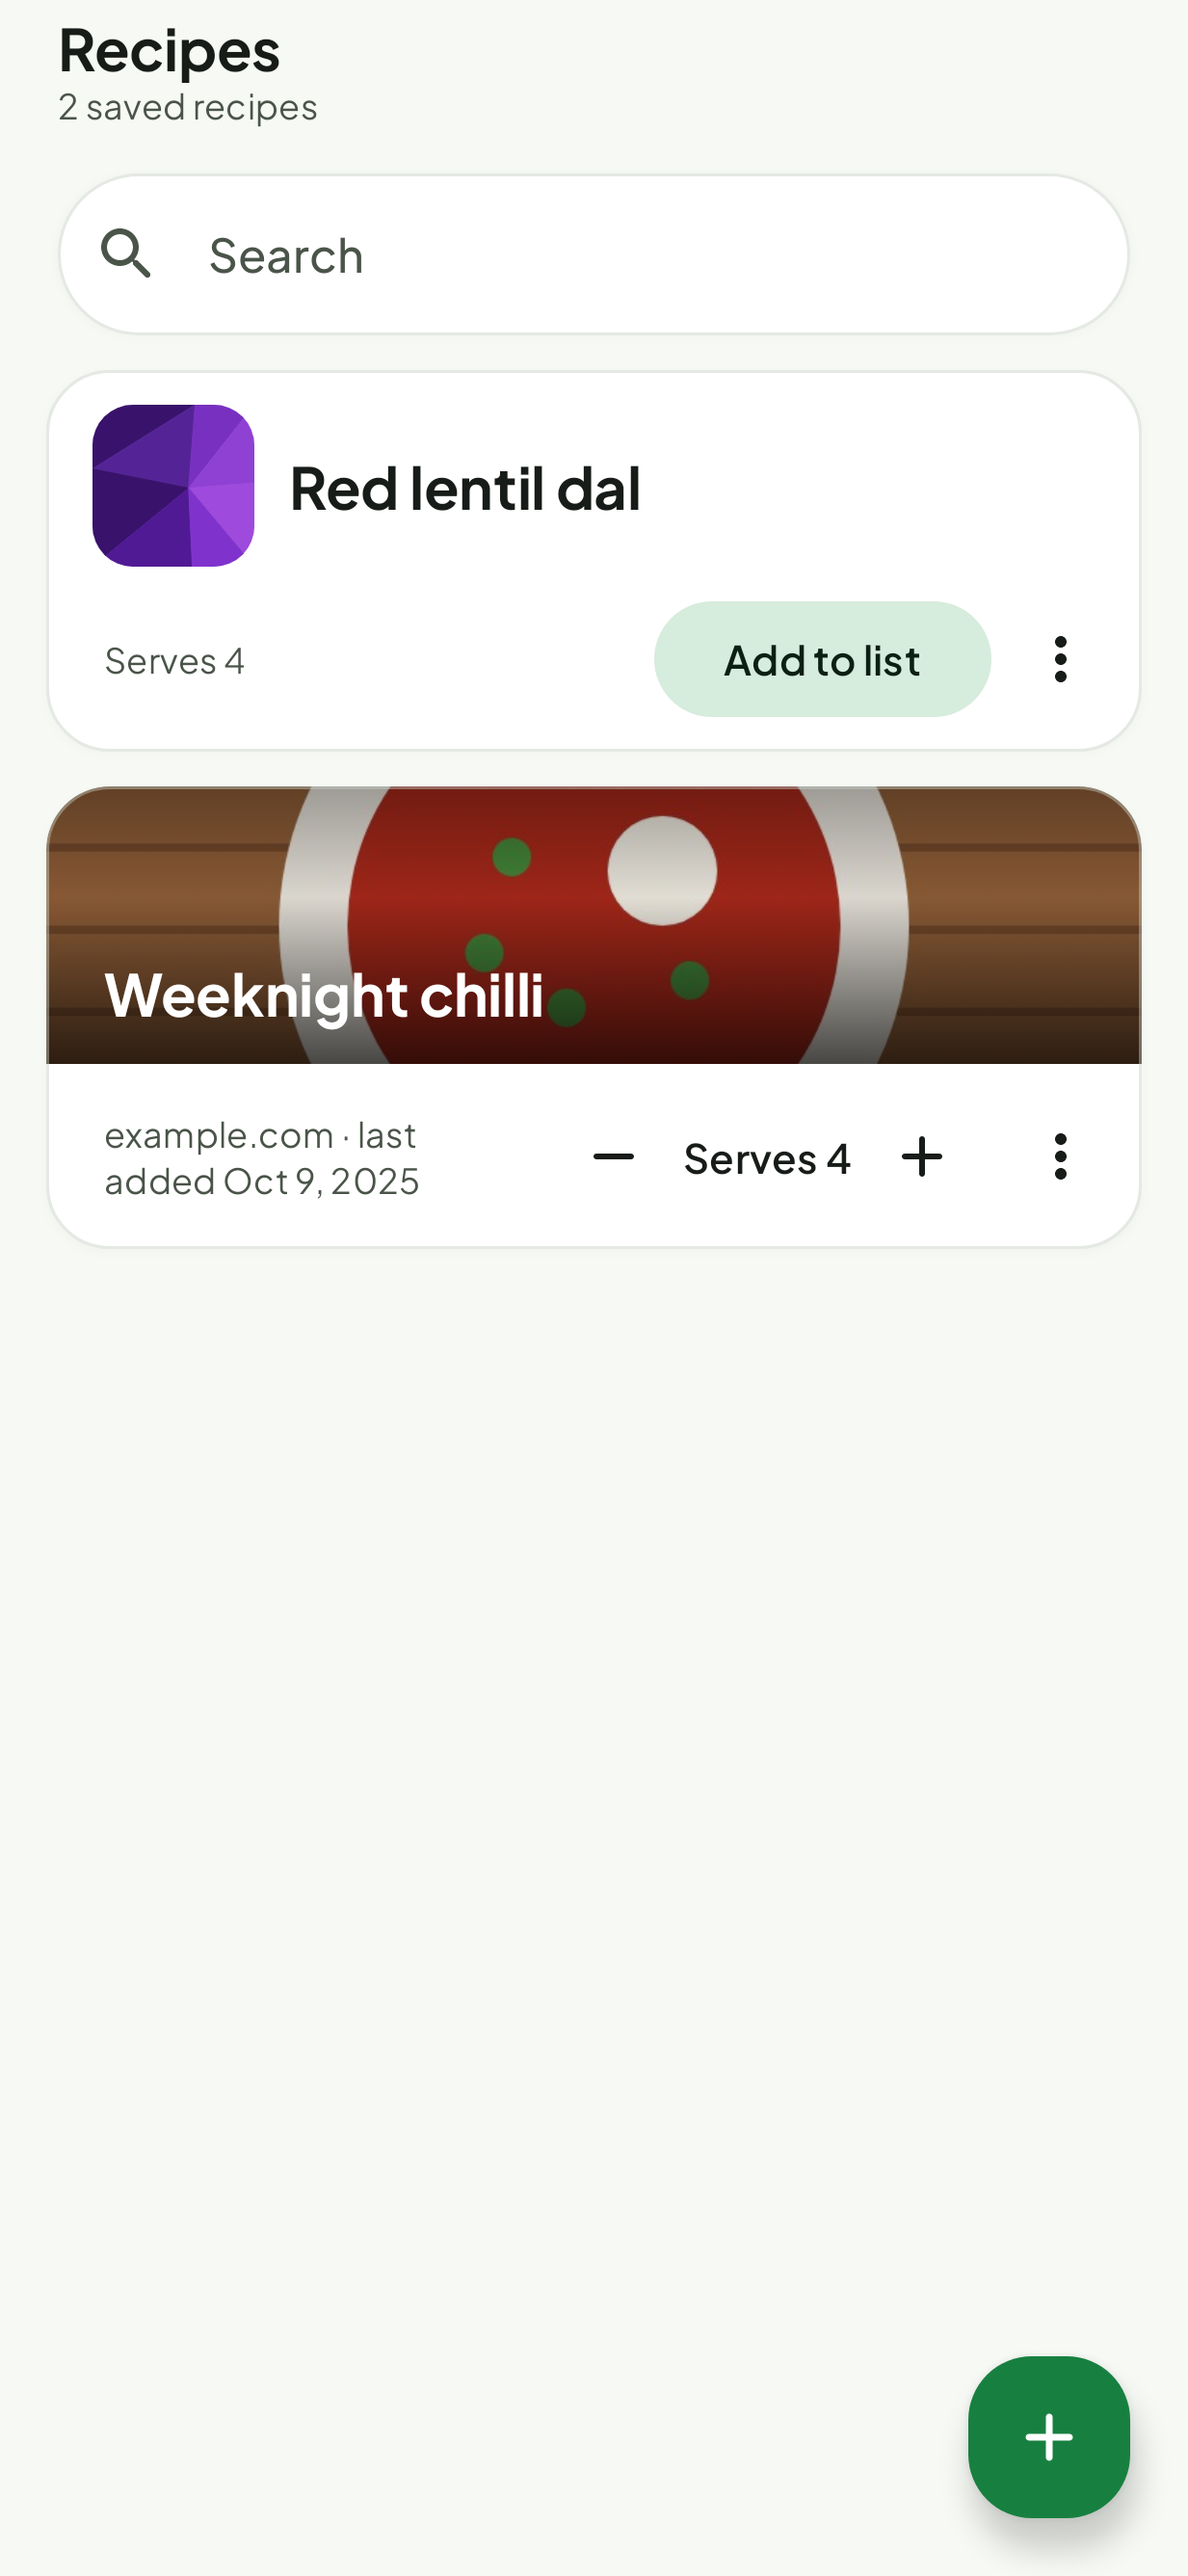
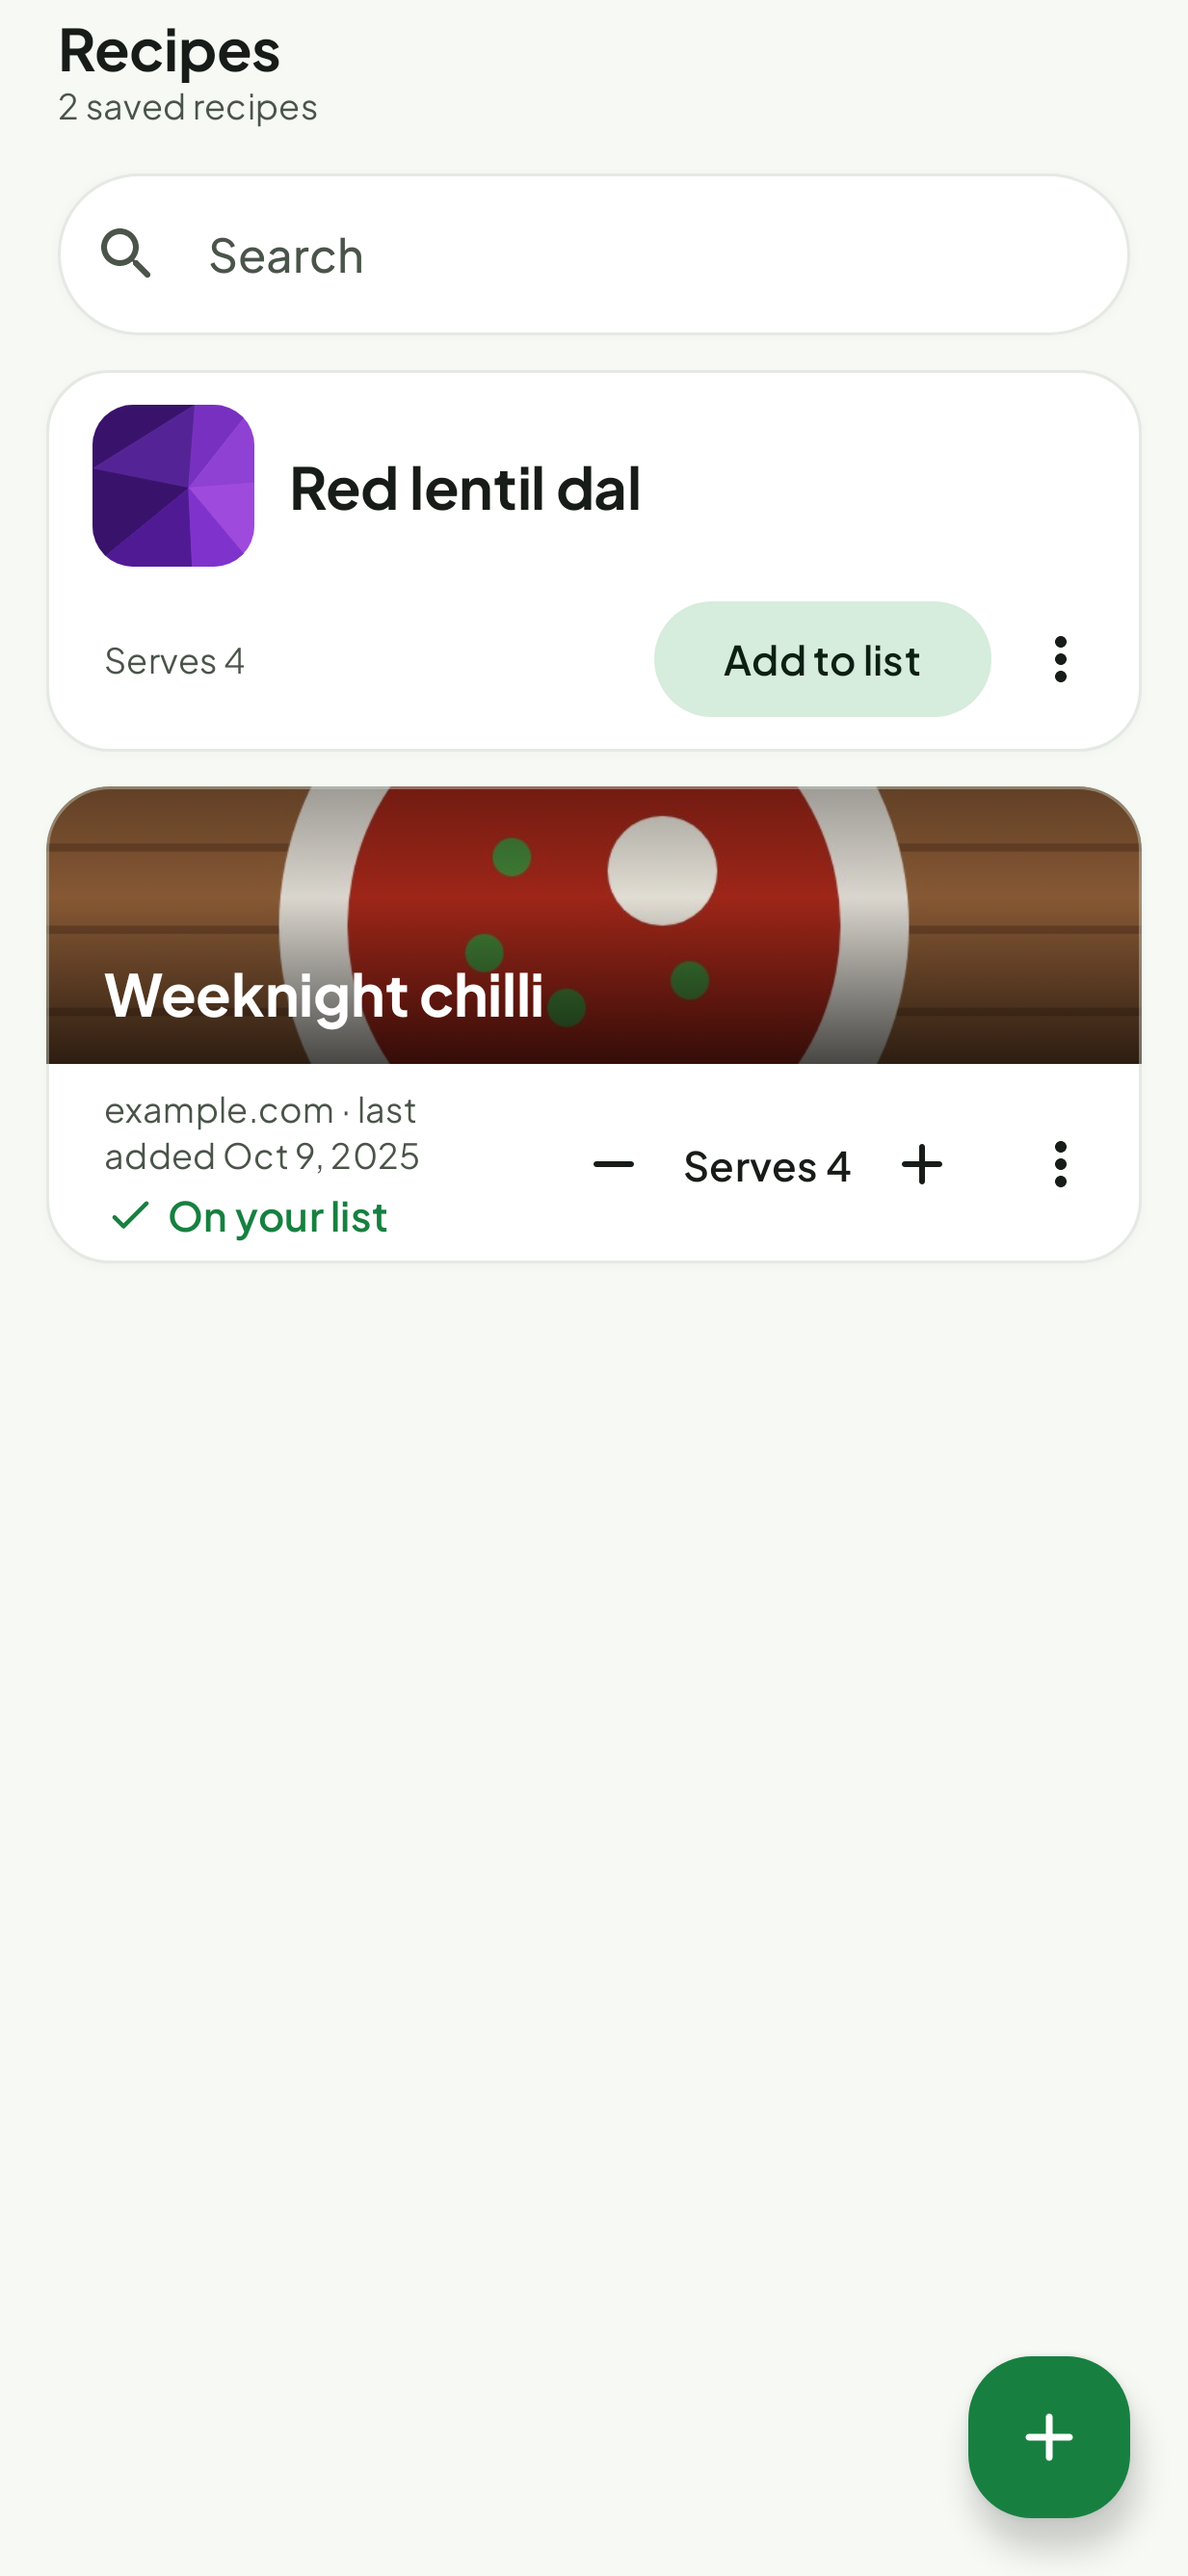
[AC.4] A recipe on the list says "On your list"
A ticked "On your list" beside the servings on the Recipes card and sheet;
off the list, "Add to list" as before.

Claude-Session: https://claude.ai/code/session_01XHyUGxiCMSHv96zvVnb1yh

diff --git a/android/app/src/main/java/com/robert4lyf/hypershop/ui/recipes/RecipesRoute.kt b/android/app/src/main/java/com/robert4lyf/hypershop/ui/recipes/RecipesRoute.kt
@@ -490,13 +490,8 @@ private fun LibraryCard(
                     row.uses?.let {
                         Text("Uses $it", style = MaterialTheme.typography.labelMedium, color = MaterialTheme.colorScheme.tertiary)
                     }
-                    if (row.onList && row.servings == null) {
-                        Text(
-                            "On the shopping list",
-                            style = MaterialTheme.typography.labelMedium,
-                            color = MaterialTheme.colorScheme.primary,
-                        )
-                    }
+                    // Step AC: on the list, said with a tick beside the servings; off it, "Add to list" instead.
+                    if (row.onList) OnYourList(Modifier.padding(top = 4.dp).testTag("lib-on-list-${row.key}"))
                 }
                 // Step AA: on the list, the card shows how many it is for, changed in place; "Add to list" only when it
                 // is not on the list (it no longer sits beside "On the shopping list").
@@ -645,6 +640,19 @@ fun RecipeDetailContent(
     }
 }
 
+/** Step AC: "✓ On your list", one TalkBack node, so a recipe on the list reads differently from one with "Add to list". */
+@Composable
+private fun OnYourList(modifier: Modifier = Modifier) {
+    Row(
+        modifier.semantics(mergeDescendants = true) {},
+        verticalAlignment = Alignment.CenterVertically,
+        horizontalArrangement = Arrangement.spacedBy(4.dp),
+    ) {
+        Icon(Icons.Rounded.Check, contentDescription = null, tint = MaterialTheme.colorScheme.primary, modifier = Modifier.size(18.dp))
+        Text("On your list", style = MaterialTheme.typography.labelLarge, color = MaterialTheme.colorScheme.primary)
+    }
+}
+
 @OptIn(ExperimentalLayoutApi::class)
 @Composable
 private fun DetailButtons(
@@ -665,8 +673,11 @@ private fun DetailButtons(
                     Spacer(Modifier.size(8.dp))
                     Text("Add to list")
                 }
-            row.servings != null -> com.robert4lyf.hypershop.ui.common.ServingsStepper(row.servings, onServings, tag = "detail-serves")
-            else -> Text("On the shopping list", style = MaterialTheme.typography.labelLarge, color = MaterialTheme.colorScheme.primary)
+            else ->
+                Row(verticalAlignment = Alignment.CenterVertically, horizontalArrangement = Arrangement.spacedBy(12.dp)) {
+                    OnYourList(Modifier.testTag("detail-on-list"))
+                    row.servings?.let { com.robert4lyf.hypershop.ui.common.ServingsStepper(it, onServings, tag = "detail-serves") }
+                }
         }
         onOpen?.let {
             OutlinedButton(onClick = it) {

diff --git a/android/app/src/test/java/com/robert4lyf/hypershop/ui/recipes/RecipesScreenTest.kt b/android/app/src/test/java/com/robert4lyf/hypershop/ui/recipes/RecipesScreenTest.kt
@@ -128,7 +128,7 @@ class RecipesScreenTest {
 
     @Test
     fun onTheListTheCardShowsServingsInPlaceOfAddToListAndItsMenuRemovesIt() {
-        // Step AA: "Add to list" no longer sits beside "On the shopping list".
+        // Step AA: "Add to list" only off the list. Step AC: on it, a ticked "On your list" beside the servings.
         val got = mutableListOf<String>()
         compose.setContent {
             HyperShopTheme(dynamicColor = false) {
@@ -148,8 +148,10 @@ class RecipesScreenTest {
         list.performScrollToNode(hasTestTag("lib-add-r:9"))
         compose.onNodeWithTag("lib-add-r:9").performClick()
         compose.onNodeWithTag("lib-serves-r:9").assertDoesNotExist()
-        // On the list: "− Serves 4 +", no Add to list; each press counts from the last.
+        compose.onNodeWithTag("lib-on-list-r:9", useUnmergedTree = true).assertDoesNotExist()
+        // On the list: "✓ On your list" (one node, read as such) and "− Serves 4 +", no Add to list.
         list.performScrollToNode(hasTestTag("lib-serves-r:1"))
+        compose.onNodeWithTag("lib-on-list-r:1").assertTextEquals("On your list")
         compose.onNodeWithTag("lib-add-r:1").assertDoesNotExist()
         compose.onNodeWithTag("lib-serves-r:1").assertTextEquals("Serves 4")
         compose.onNodeWithTag("lib-serves-r:1-more").performClick()

diff --git a/docs/design/simple-ux.md b/docs/design/simple-ux.md
@@ -48,6 +48,7 @@ On the review, lines still to go on the list are counted as **N to add** ("4 to 
 | **Add to list · N items** | Review | review `apply` (plans itself; an edit relinks) |
 | **Save recipe only** | Review ⋮ | review `saveForLater` |
 | **Checkbox** (ticked = add; unticked rows are greyed and say **At home**) | Review row | the row's decision (in stock); staples from Settings › Always at home start unticked; TalkBack reads the row as one node (name, amount, "Will be added" or "At home, not added") and toggles it with "Mark at home" / "Add to list" |
+| **✓ On your list** | A recipe on the list: its Recipes card (beside the servings) and sheet | says it is on the list (one TalkBack node); a recipe not on it shows **Add to list** and its servings as plain text instead |
 | **− Serves N +** | A recipe on the list: its Recipes card and sheet (in place of Add to list), and its card on the list (Group by recipe, ⋮) | `Planner.setUseServings` on each press (the meal and the use rescaled together; what was bought stays bought). On the list twice, the latest is changed and the card says "on the list twice" |
 | **Remove from list** | A recipe on the list: its Recipes card's ⋮, its card on the list (⋮), its ingredients sheet | `ListRepository.removeFromList` for each time it is on the list (the use goes only when nothing of it is bought; otherwise unbought shares are withdrawn); one Undo |
 | **Can't find it** / **Found it** | The item's sheet | `markUnavailable` / `markAvailable` |

diff --git a/PROGRESS.md b/PROGRESS.md
@@ -566,7 +566,10 @@ words.
   `saveItem` keeps that part (before, the field opened empty). Tests updated; seven `ItemSheetHostTest` cases went:
   they asked "Discard edits and mark bought / remove / swap" with the form and the item's actions on screen together,
   which cannot happen now (the confirmation code stays, harmless; Back on a dirty form still asks).
-- [ ] AC.4 A recipe on the list says so
+- [x] AC.4 A recipe on the list says so. Its Recipes card shows a ticked "On your list" (one merged TalkBack node)
+  in the card's text, beside the "− Serves N +" stepper; the sheet shows the same beside its stepper. Off the list:
+  "Add to list" and "Serves N" as plain text in the card line (unchanged). "On the shopping list" (shown only when
+  the servings were unknown) is gone. `RecipesScreenTest` checks both states.
 - [ ] AC.5 Review warnings in plain words
 - [ ] AC.6 Always at home chips
 - [ ] AC.7 "Don't suggest" can be undone
